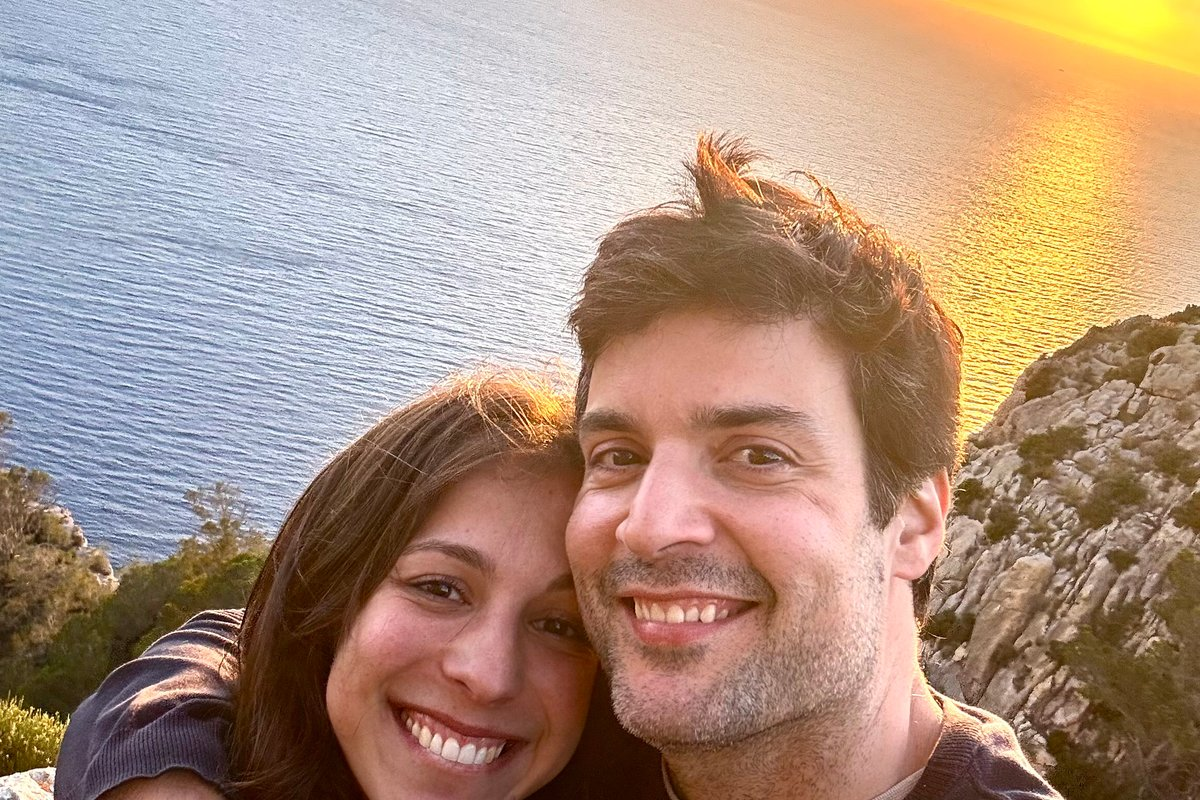
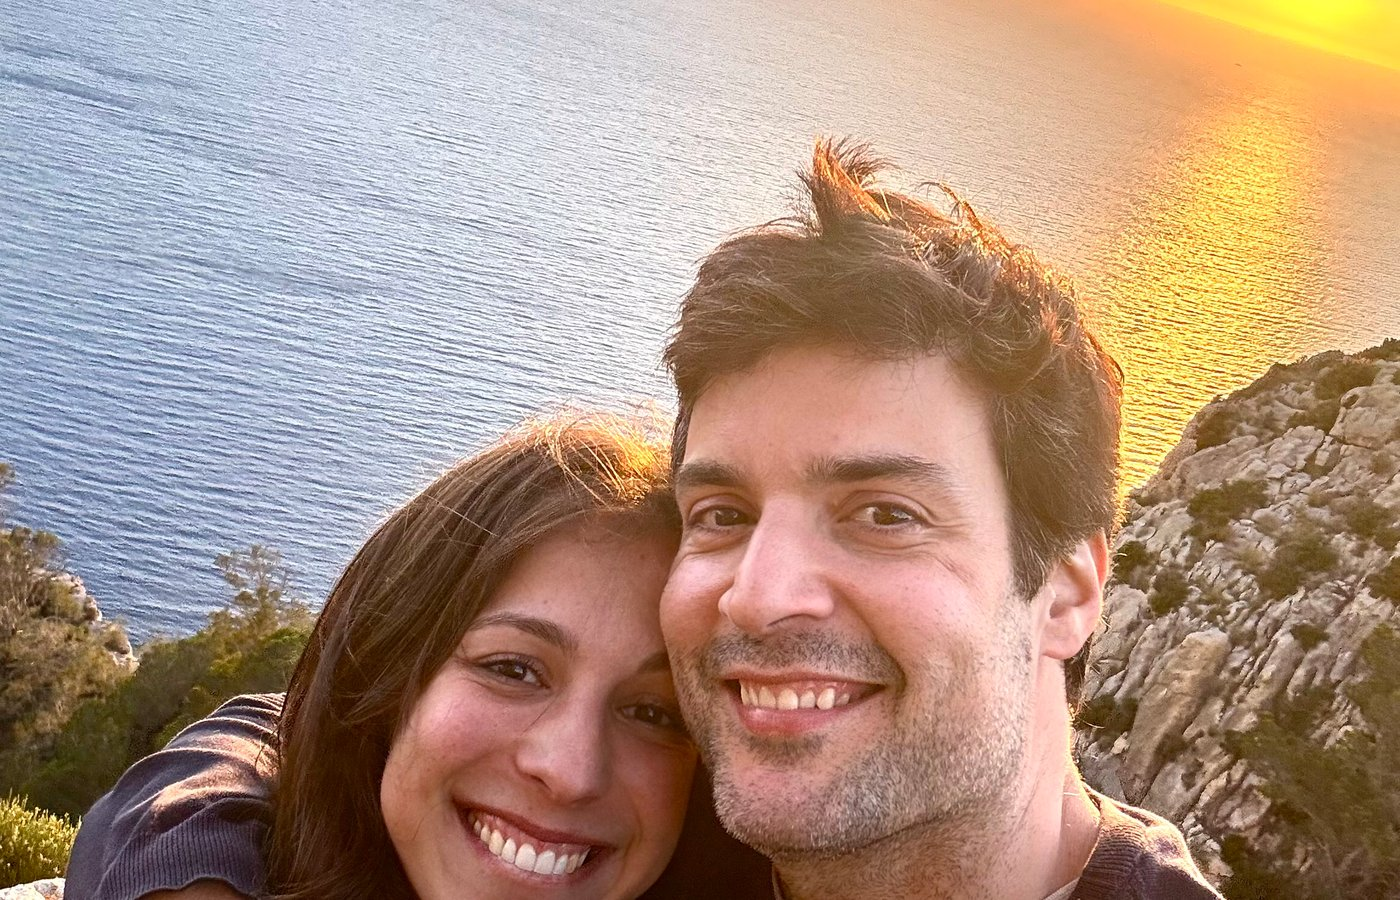
Fix hero zoom and make Alojamientos symmetric
- Reduce hero image zoom to show more of the photo
- Remove 'Sede del Banquete' header from Malates card
- Add venue info to Malates description text instead

diff --git a/src/components/Alojamientos.jsx b/src/components/Alojamientos.jsx
@@ -4,13 +4,13 @@ function Alojamientos() {
       nombre: "Malates Slow Boutique Hotel",
       estrellas: 3,
       imagen: "/images/malates.jpg",
-      descripcion: "Alojamiento en una antigua zona de astilleros de ribera a pie de Ría donde los paisajes cambiantes unen mar y tierra en un entorno mágico.",
+      descripcion: "Sede de nuestro banquete. Una antigua zona de astilleros de ribera a pie de Ría donde los paisajes cambiantes unen mar y tierra en un entorno mágico.",
       detalle: "14 habitaciones con encanto",
       descuento: "15% de descuento",
       codigo: "1team1dream",
       comoReservar: "Usar código al reservar",
       web: "https://malatesboutiquehotel.com",
-      destacado: true
+      destacado: false
     },
     {
       nombre: "Oca Playa Foz Hotel y Spa",
@@ -54,16 +54,8 @@ function Alojamientos() {
           {alojamientos.map((aloj, index) => (
             <div
               key={index}
-              className={`bg-white rounded-2xl overflow-hidden shadow-lg flex flex-col ${
-                aloj.destacado ? 'ring-2 ring-primary-500' : ''
-              }`}
+              className="bg-white rounded-2xl overflow-hidden shadow-lg flex flex-col"
             >
-              {aloj.destacado && (
-                <div className="bg-primary-500 text-white text-center py-2 text-sm font-medium">
-                  Sede del Banquete
-                </div>
-              )}
-
               {/* Imagen */}
               <div className="relative h-48 overflow-hidden">
                 <img
